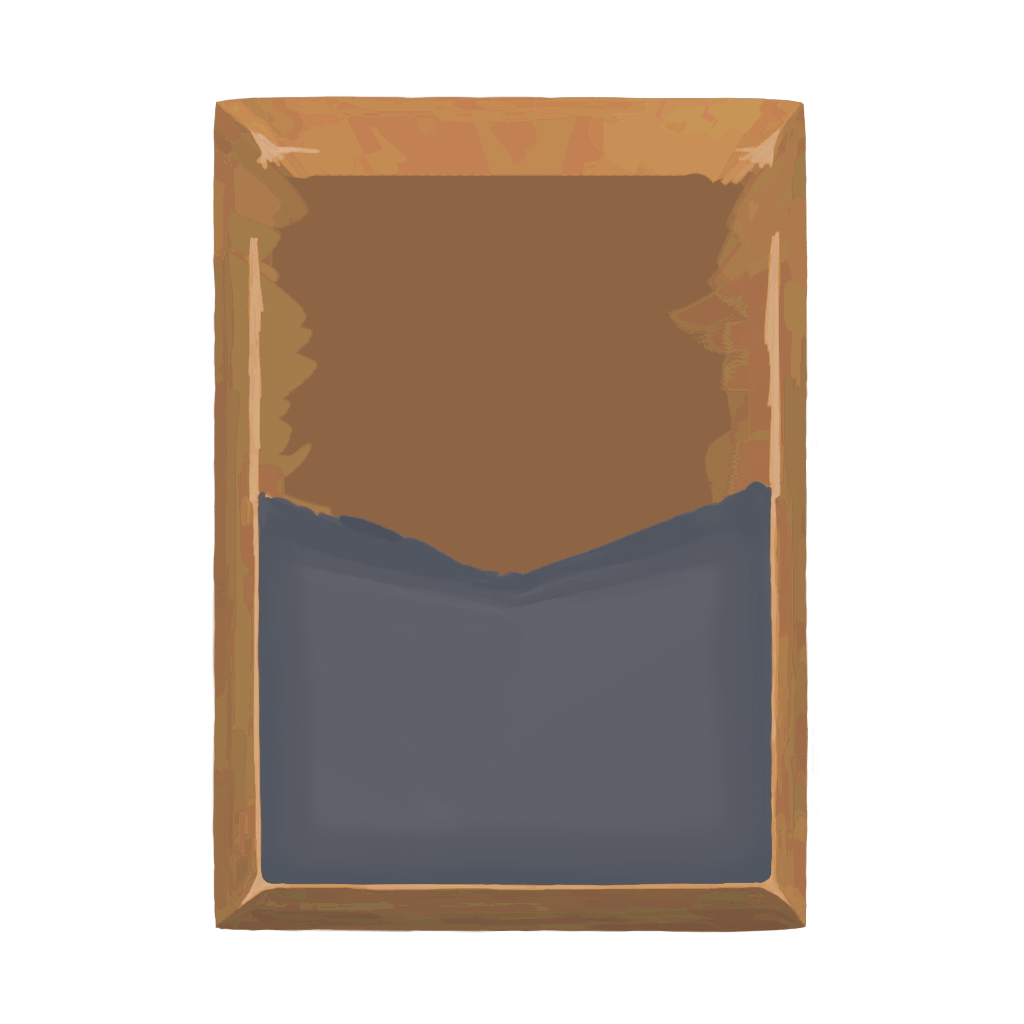
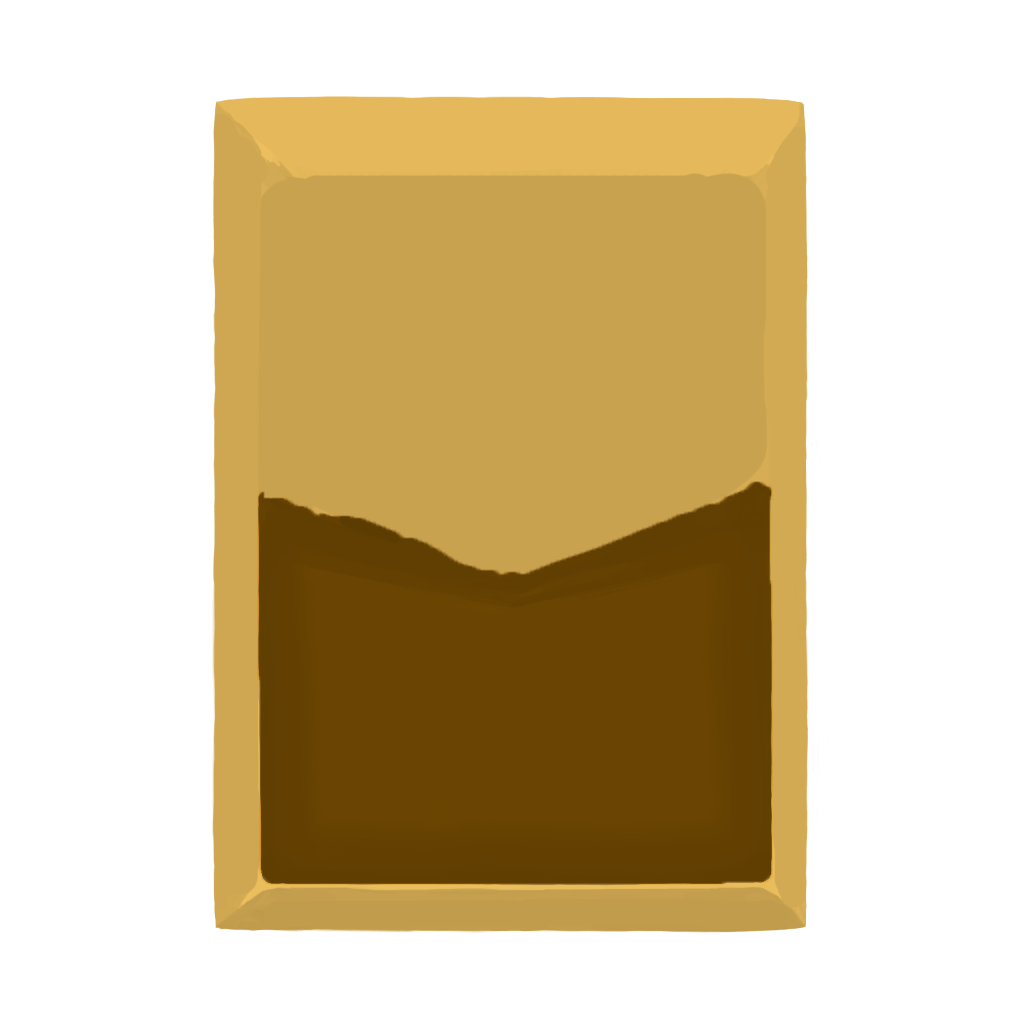
feat:牌面背景

diff --git a/src/main/java/org/joi/character/JoiCharacter.java b/src/main/java/org/joi/character/JoiCharacter.java
@@ -73,22 +73,19 @@ public class JoiCharacter extends CustomPlayer {
         // AnimationState.TrackEntry e = this.state.setAnimation(0, "Idle", true);
         // e.setTime(e.getEndTime() * MathUtils.random());
         // e.setTimeScale(1.2F);
-
-
     }
 
     // 初始卡组的ID，可直接写或引用变量
     public ArrayList<String> getStartingDeck() {
         ArrayList<String> retVal = new ArrayList<>();
-        // 5张打击
-        for (int x = 0; x < 5; x++) {
+        // 4张打击
+        for (int x = 0; x < 4; x++) {
             retVal.add(Strike.ID);
         }
-        // 5张防御
-        for (int x = 0; x < 5; x++) {
+        // 4张防御
+        for (int x = 0; x < 4; x++) {
             retVal.add(Defend.ID);
         }
-        retVal.add(Facade.ID);
         return retVal;
     }
 
@@ -215,12 +212,4 @@ public class JoiCharacter extends CustomPlayer {
     public AbstractGameAction.AttackEffect[] getSpireHeartSlashEffect() {
         return new AbstractGameAction.AttackEffect[]{AbstractGameAction.AttackEffect.SLASH_HEAVY, AbstractGameAction.AttackEffect.FIRE, AbstractGameAction.AttackEffect.SLASH_DIAGONAL, AbstractGameAction.AttackEffect.SLASH_HEAVY, AbstractGameAction.AttackEffect.FIRE, AbstractGameAction.AttackEffect.SLASH_DIAGONAL};
     }
-
-    // 以下为原版人物枚举、卡牌颜色枚举扩展的枚举，需要写，接下来要用
-
-    // 注意此处是在 MyCharacter 类内部的静态嵌套类中定义的新枚举值
-    // 不可将该定义放在外部的 MyCharacter 类中，具体原因见《高级技巧 / 01 - Patch / SpireEnum》
-
-
-
 }
